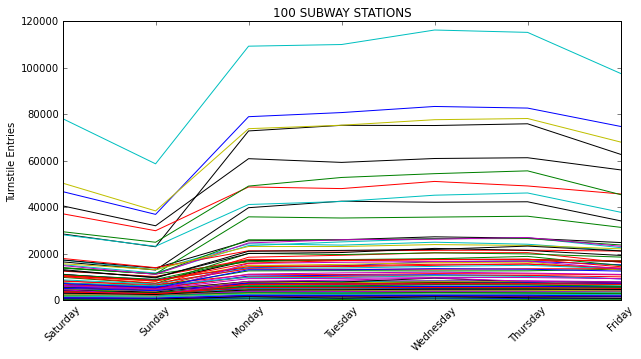
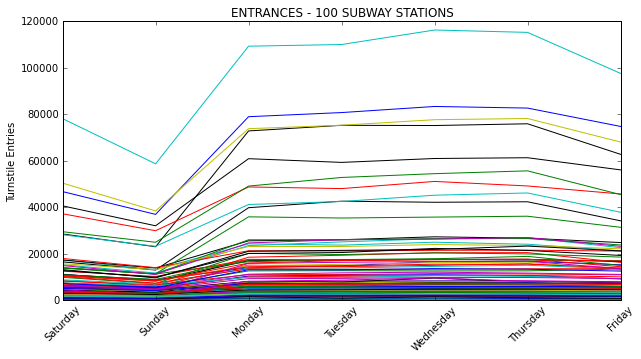
update images and turnstile text

Changed region(s): [[0.3432, 0.0, 0.7176, 0.0613]]

diff --git a/_posts/2015-7-5-MTA-Turnstile.md b/_posts/2015-7-5-MTA-Turnstile.md
@@ -5,7 +5,7 @@ title: Project 01 - MTA Turnstile Data
 
 Working with data can be messy. Very messy. This week at Metis we worked on a project using MTA turnstile data. The bulk of my time was spent processing, cleaning, and reshaping the data to see what sorts of stories it could tell.
 
-I accumulated all subway entries for all stations during the most recent six weeks. Looking at a week of entries for 100 stations, ridership follows a similar pattern for most stations – fewer subway riders on the weekends and more traffic on weekdays – with most stations seeing lower volume. There are 468 subway stations overall.
+I accumulated all subway entries for all stations during the most recent six weeks, from May 16 to June 27. Each week of data starts at midnight on Saturday. Looking at a week of entries for 100 stations, ridership follows a similar pattern for most stations – fewer subway riders on the weekends and more traffic on weekdays – with most stations seeing lower volume. There are 468 subway stations overall.
 
 ![png](../img/benson_01.png)
 
@@ -17,7 +17,7 @@ Bedford Avenue in Brooklyn looks quite different. The weekend traffic is higher 
 
 ![png](../img/benson_03.png)
 
-I was curious about where people were going during the off-peak hours, so I did some additional digging. I looked at subway exits for late night hours, 8pm to 4am, and made some comparisons between weeknight and weekend. For weeknight I used the average of Monday through Wednesday ridership and for weekend the average of Friday and Saturday.
+I was curious about where people were going during the off-peak hours, so I did some additional digging. I expanded my dataset to thirteen weeks and looked at subway exits for late night hours, 8pm to 4am, and made some comparisons between weeknight and weekend. For weeknight I used the average of Monday through Wednesday ridership and for weekend the average of Friday and Saturday.
 
 ![png](../img/benson_04.png)
 
